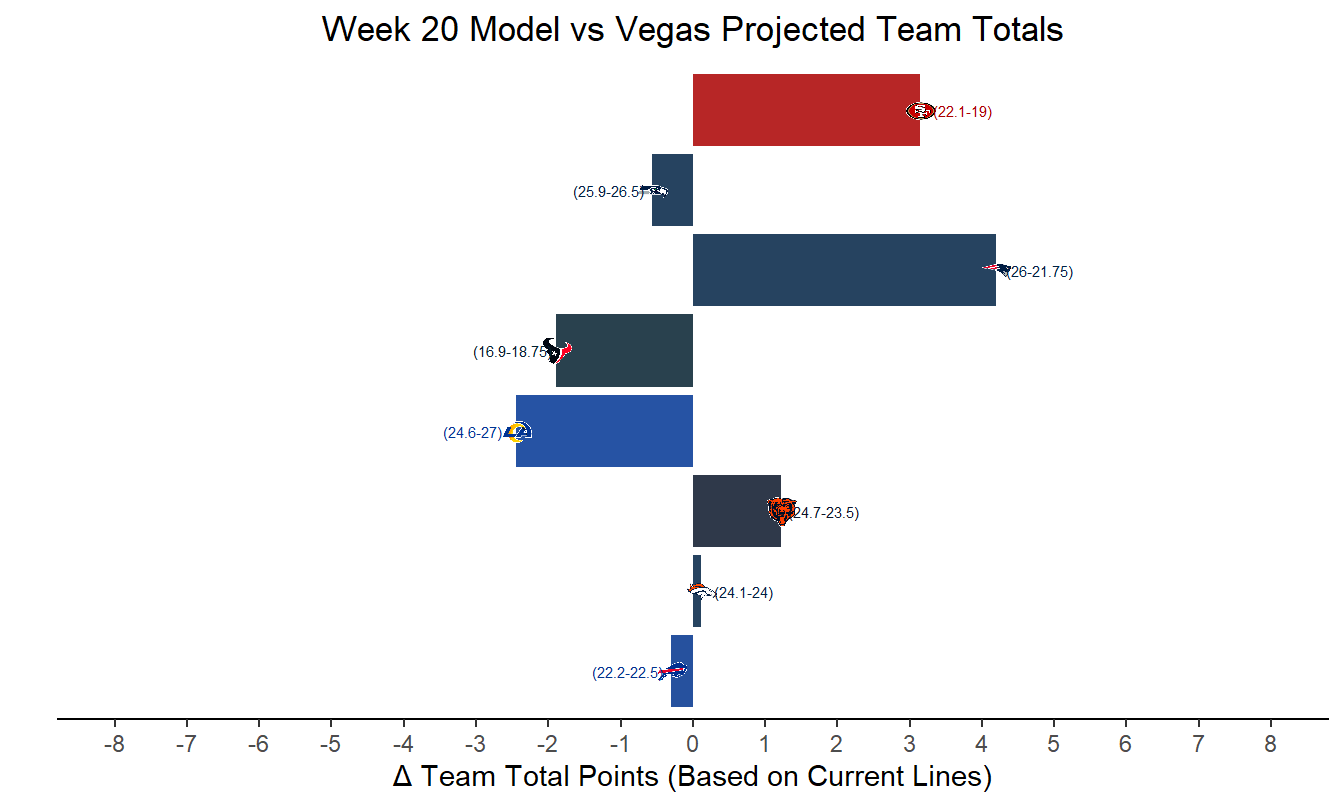
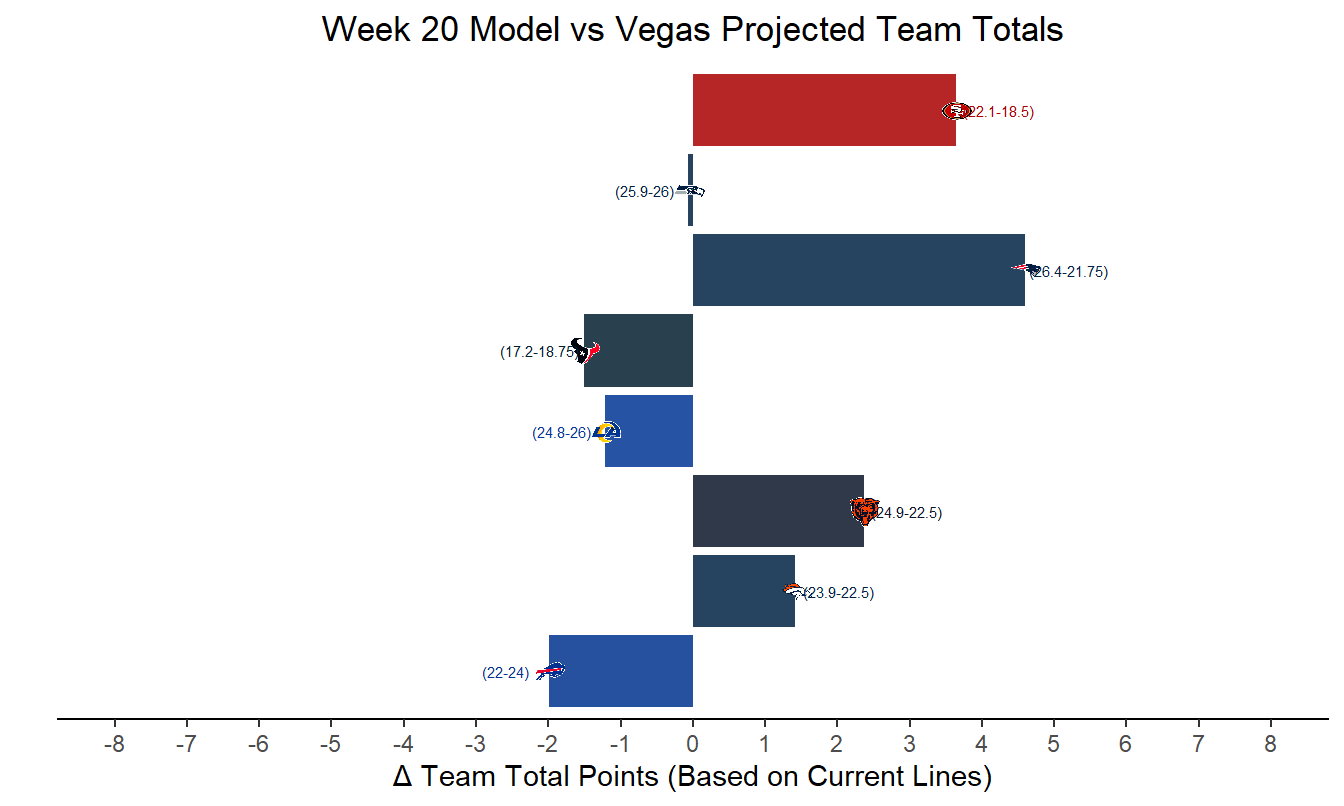
updating site

diff --git a/docs/mods.html b/docs/mods.html
@@ -127,7 +127,7 @@ Note
 </div>
 </div>
 <div class="callout-body-container callout-body">
-<p>Updated as of Tuesday, January 13, 2026 at 11:12:25 AM</p>
+<p>Updated as of Tuesday, January 13, 2026 at 3:58:42 PM</p>
 </div>
 </div>
 <section id="my-model-vs-vegas-based-on-opening-bet-lines" class="level2">
@@ -621,19 +621,28 @@ Note
 <tr class="even">
 <td class="gt_row gt_left" headers="game">HOU @ NE</td>
 <td class="gt_row gt_left" headers="total_line_label">43.5</td>
-<td class="gt_row gt_left" headers="total_mod_label">42.8</td>
+<td class="gt_row gt_left" headers="total_mod_label">43.6</td>
 <td class="gt_row gt_left" headers="bet_total">NA</td>
 <td class="gt_row gt_left" headers="spread_line_label">NE -2.5</td>
 <td class="gt_row gt_left" headers="spread_mod_label">NE -9.1</td>
 <td class="gt_row gt_left" headers="bet_spread">NE -3</td>
 </tr>
 <tr class="odd">
+<td class="gt_row gt_left" headers="game">BUF @ DEN</td>
+<td class="gt_row gt_left" headers="total_line_label">46.5</td>
+<td class="gt_row gt_left" headers="total_mod_label">45.9</td>
+<td class="gt_row gt_left" headers="bet_total">NA</td>
+<td class="gt_row gt_left" headers="spread_line_label">DEN +1.5</td>
+<td class="gt_row gt_left" headers="spread_mod_label">DEN -1.9</td>
+<td class="gt_row gt_left" headers="bet_spread">DEN +1.5</td>
+</tr>
+<tr class="even">
 <td class="gt_row gt_left" headers="game">LA @ CHI</td>
 <td class="gt_row gt_left" headers="total_line_label">51.5</td>
-<td class="gt_row gt_left" headers="total_mod_label">49.3</td>
+<td class="gt_row gt_left" headers="total_mod_label">49.7</td>
 <td class="gt_row gt_left" headers="bet_total">NA</td>
 <td class="gt_row gt_left" headers="spread_line_label">CHI +4.5</td>
-<td class="gt_row gt_left" headers="spread_mod_label">CHI -0.2</td>
+<td class="gt_row gt_left" headers="spread_mod_label">CHI -0.1</td>
 <td class="gt_row gt_left" headers="bet_spread">CHI +3.5</td>
 </tr>
 </tbody>
@@ -2867,37 +2876,48 @@ Note
 </thead>
 <tbody class="gt_table_body">
 <tr class="odd">
-<td class="gt_row gt_left" headers="game">SF @ SEA</td>
-<td class="gt_row gt_left" headers="total_line_current_label">45.5</td>
-<td class="gt_row gt_left" headers="total_mod_label">48.1</td>
-<td class="gt_row gt_left" headers="side_current_total">Over</td>
-<td class="gt_row gt_left" headers="stake_current_total">0.54</td>
-<td class="gt_row gt_left" headers="spread_line_current_label">(SEA -7.5)</td>
-<td class="gt_row gt_left" headers="spread_mod_label">SEA -3.8</td>
-<td class="gt_row gt_left" headers="side_current_spread">Away</td>
-<td class="gt_row gt_left" headers="stake_current_spread">0.84</td>
-</tr>
-<tr class="even">
-<td class="gt_row gt_left" headers="game">LA @ CHI</td>
-<td class="gt_row gt_left" headers="total_line_current_label">50.5</td>
-<td class="gt_row gt_left" headers="total_mod_label">49.3</td>
-<td class="gt_row gt_left" headers="side_current_total">NA</td>
-<td class="gt_row gt_left" headers="stake_current_total">0.18</td>
-<td class="gt_row gt_left" headers="spread_line_current_label">(CHI +3.5)</td>
-<td class="gt_row gt_left" headers="spread_mod_label">CHI -0.2</td>
-<td class="gt_row gt_left" headers="side_current_spread">Home</td>
-<td class="gt_row gt_left" headers="stake_current_spread">1.01</td>
-</tr>
-<tr class="odd">
 <td class="gt_row gt_left" headers="game">HOU @ NE</td>
 <td class="gt_row gt_left" headers="total_line_current_label">40.5</td>
-<td class="gt_row gt_left" headers="total_mod_label">42.8</td>
-<td class="gt_row gt_left" headers="side_current_total">NA</td>
-<td class="gt_row gt_left" headers="stake_current_total">0.31</td>
+<td class="gt_row gt_left" headers="total_mod_label">43.6</td>
+<td class="gt_row gt_left" headers="side_current_total">Over</td>
+<td class="gt_row gt_left" headers="stake_current_total">0.56</td>
 <td class="gt_row gt_left" headers="spread_line_current_label">(NE -3)</td>
 <td class="gt_row gt_left" headers="spread_mod_label">NE -9.1</td>
 <td class="gt_row gt_left" headers="side_current_spread">Home</td>
-<td class="gt_row gt_left" headers="stake_current_spread">1.69</td>
+<td class="gt_row gt_left" headers="stake_current_spread">1.43</td>
+</tr>
+<tr class="even">
+<td class="gt_row gt_left" headers="game">SF @ SEA</td>
+<td class="gt_row gt_left" headers="total_line_current_label">44.5</td>
+<td class="gt_row gt_left" headers="total_mod_label">48.1</td>
+<td class="gt_row gt_left" headers="side_current_total">Over</td>
+<td class="gt_row gt_left" headers="stake_current_total">0.73</td>
+<td class="gt_row gt_left" headers="spread_line_current_label">(SEA -7.5)</td>
+<td class="gt_row gt_left" headers="spread_mod_label">SEA -3.8</td>
+<td class="gt_row gt_left" headers="side_current_spread">Away</td>
+<td class="gt_row gt_left" headers="stake_current_spread">0.78</td>
+</tr>
+<tr class="odd">
+<td class="gt_row gt_left" headers="game">BUF @ DEN</td>
+<td class="gt_row gt_left" headers="total_line_current_label">46.5</td>
+<td class="gt_row gt_left" headers="total_mod_label">45.9</td>
+<td class="gt_row gt_left" headers="side_current_total">NA</td>
+<td class="gt_row gt_left" headers="stake_current_total">0.00</td>
+<td class="gt_row gt_left" headers="spread_line_current_label">(DEN +1.5)</td>
+<td class="gt_row gt_left" headers="spread_mod_label">DEN -1.9</td>
+<td class="gt_row gt_left" headers="side_current_spread">Home</td>
+<td class="gt_row gt_left" headers="stake_current_spread">0.58</td>
+</tr>
+<tr class="even">
+<td class="gt_row gt_left" headers="game">LA @ CHI</td>
+<td class="gt_row gt_left" headers="total_line_current_label">48.5</td>
+<td class="gt_row gt_left" headers="total_mod_label">49.7</td>
+<td class="gt_row gt_left" headers="side_current_total">NA</td>
+<td class="gt_row gt_left" headers="stake_current_total">0.04</td>
+<td class="gt_row gt_left" headers="spread_line_current_label">(CHI +3.5)</td>
+<td class="gt_row gt_left" headers="spread_mod_label">CHI -0.1</td>
+<td class="gt_row gt_left" headers="side_current_spread">Home</td>
+<td class="gt_row gt_left" headers="stake_current_spread">1.03</td>
 </tr>
 </tbody>
 </table>
